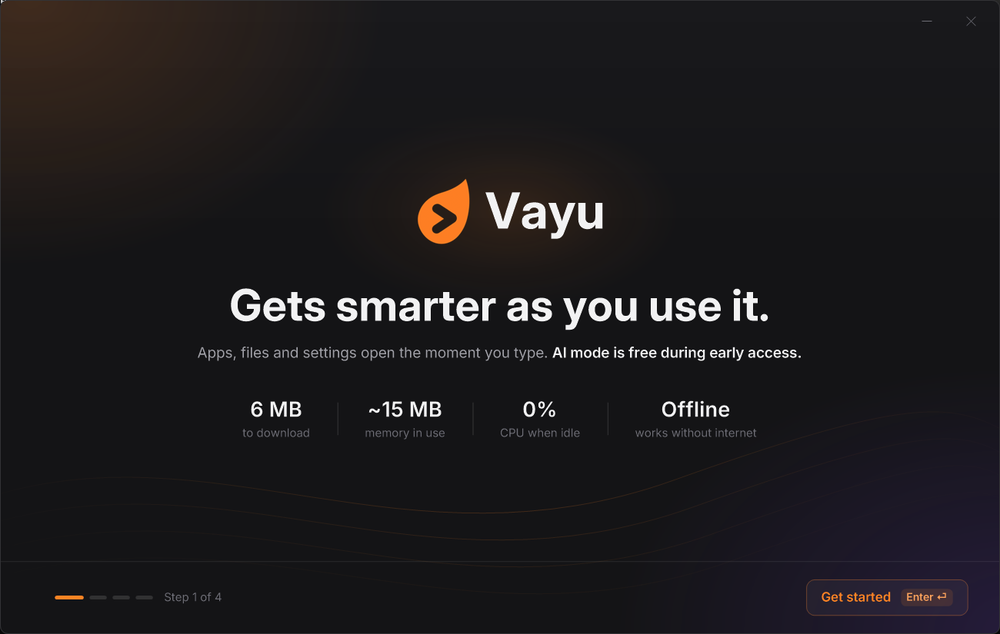
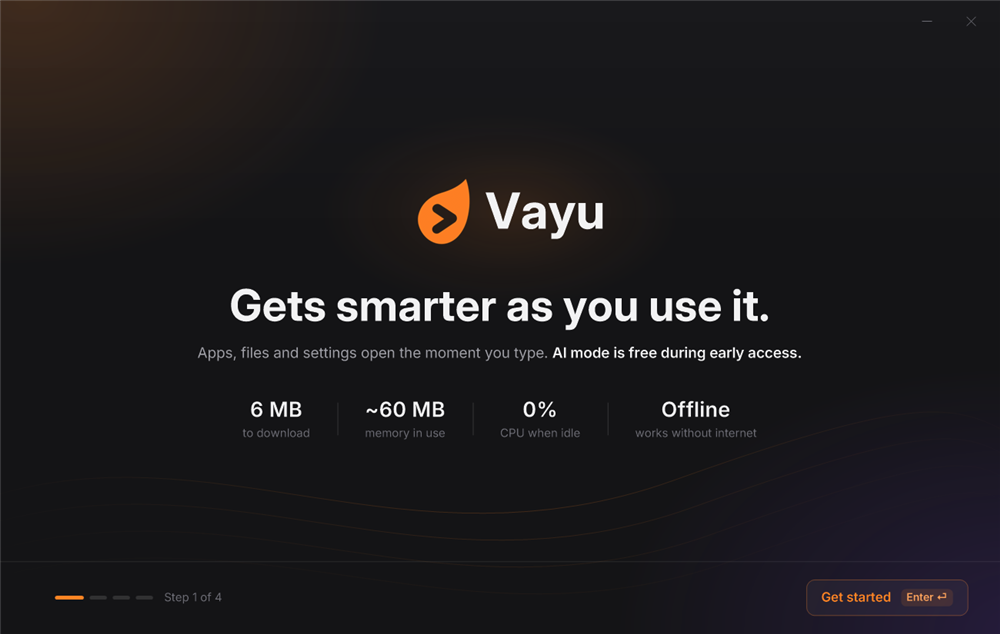
Vayu 0.4.2: update manifest, README and screenshots

diff --git a/README.md b/README.md
@@ -11,19 +11,19 @@
 
 ---
 
-Press a shortcut. Type a name or a whole sentence. It's done before you finish blinking.
+Press a shortcut. Type a name or a whole sentence. It's done in a moment.
 
 Vayu is a launcher like the ones you may already use, rebuilt from scratch to be **tiny, instant and
 private**. One small file (about 6 MB). No account. No subscription. No internet needed. It sits at **0% CPU**
-while you're not using it, and opens in about **2 milliseconds**.
+while you're not using it, and shows the window in about **50 milliseconds** after you press the key.
 
 <p align="center">
-  <img src="assets/screens/01-palette.png" width="560" alt="Vayu's search box, showing results as you type">
+  <img src="assets/screens/01-palette.png" width="400" alt="Vayu's search box, showing apps as you type">
+  &nbsp;
+  <img src="assets/screens/02-welcome.png" width="400" alt="Vayu's guided setup">
 </p>
 <p align="center">
-  <img src="assets/screens/02-welcome.png" width="400" alt="Vayu's guided setup">
-  &nbsp;
-  <img src="assets/screens/03-try-it.png" width="400" alt="Trying the Windows key at the end of setup">
+  <img src="assets/screens/03-terminal.png" width="620" alt="Vayu's built-in terminal with tabs for Git Bash and Windows PowerShell">
 </p>
 
 ## Download
@@ -38,10 +38,11 @@ updates itself.
 
 ## Why people switch
 
-- **It's instant.** About 2 ms from your key press to the window: faster than your screen can draw a
-  frame. Other launchers can take 15 times longer.
+- **It's instant.** About 50 ms from your key press to the window drawn
+  (measured on 23 November 2026 on a 144 Hz screen).
 - **It's light.** A 6 MB download, about 60 MB of memory after a full day of use, and 0% CPU when idle.
   Others take hundreds of megabytes of disk and memory, and keep working in the background.
+  Built with Rust: native code with no runtime, and memory safe by design.
 - **It's free, really.** No paid plan, no "Pro" features, no trial that runs out. AI included, with your
   own key or a model on your own PC.
 - **It's private.** Works offline. No account, no sign-in. Nothing you type ever leaves your PC
@@ -118,7 +119,7 @@ Measured on the same laptop (Intel Core i5-12450H, 16 GB RAM, Windows 11), all t
 | Memory after real use | **60 MB** | 348 MB | 111 MB |
 | Highest memory seen | **76 MB** | 428 MB | 278 MB |
 | CPU while idle | **0.00%** | 0.63% | 0.26% |
-| Key press → window shown | **~2 ms** | not measured | ~35 ms |
+| Key press → window drawn | **~50 ms** (23 Nov 2026) | not measured | not measured |
 | Runs without an account | **Yes** | Sign-in for Pro features | Yes |
 | AI without a paid plan | **Yes** (your key or a local model) | No (Pro plan) | No AI |
 | Multi-step sentences | **Yes**, no AI needed | With paid AI | No |
